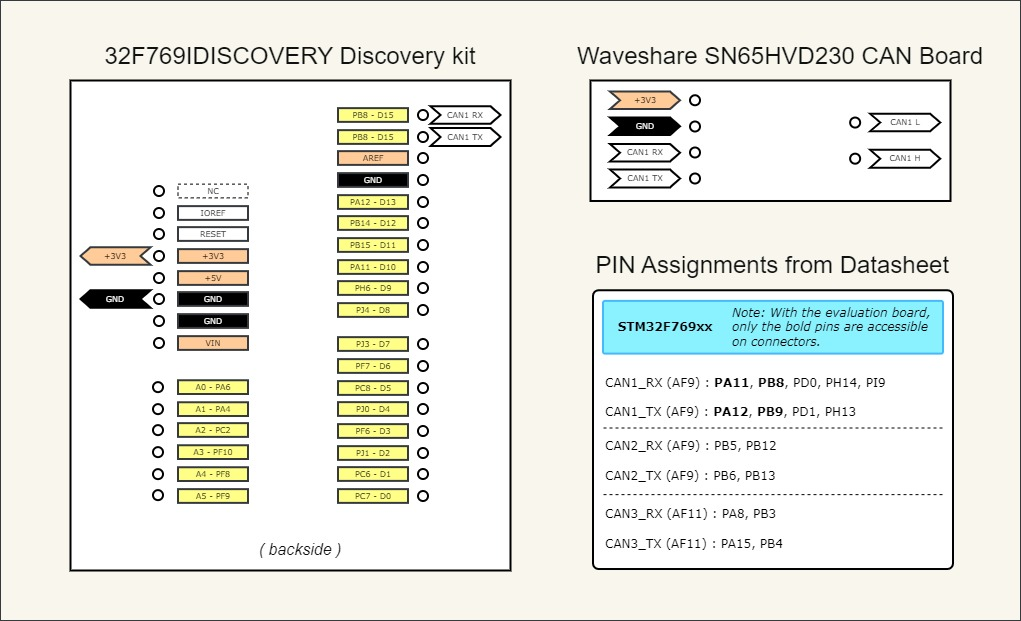
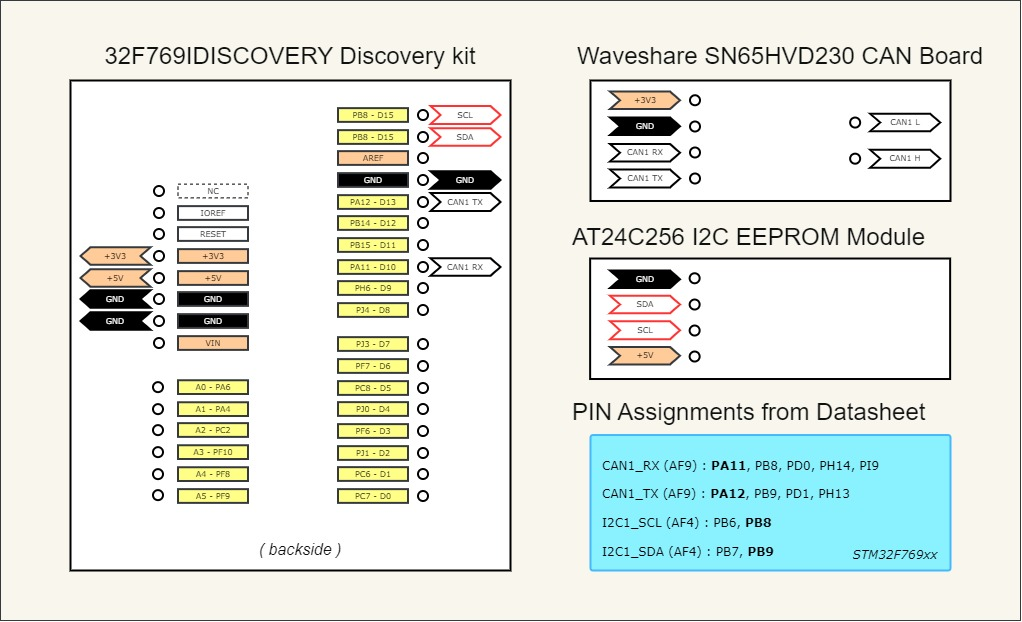
update readme and image pin collection

diff --git a/README.md b/README.md
@@ -20,6 +20,8 @@ We use the [STM32Cube MCU Full Package for the STM32F7 series](https://github.co
 My hardware setup for this development and testing is:
 - the [32F769IDISCOVERY Discovery kit](https://www.st.com/en/evaluation-tools/32f769idiscovery.html)
 - a CAN tranceiver [Waveshare SN65HVD230 CAN Board](https://www.waveshare.com/sn65hvd230-can-board.htm)
+- an Atmel [AT24C256 I2C EEPROM](https://www.microchip.com/en-us/product/AT24C256C)
+- the [KVaser USBcan II HS/HS](https://www.kvaser.com/product/kvaser-usbcan-ii-hshs/) for CAN bus monitoring
 - the [Saleae Logic Analyzer](https://www.saleae.com/) for low level measurements
 
 The wiring is pretty simple. For your reference, see the essence in a small diagram:
@@ -40,8 +42,9 @@ Download and install these free tools for your system:
 - Install the build tools [Cmake](https://cmake.org/)
 - Install the build system [Ninja](https://ninja-build.org/)
 - Install the cross-compiler [Arm GNU Toolchain](https://developer.arm.com/Tools%20and%20Software/GNU%20Toolchain)
+- Install the [STM32CubeProgrammer](https://www.st.com/en/development-tools/stm32cubeprog.html) for uploading the program to the microcontroller.
 
-*Note: on my Windows machine, I use the [Ozone debugger](https://www.segger.com/downloads/jlink/) with the free [ST-Link Reflash Utility](https://www.segger.com/products/debug-probes/j-link/models/other-j-links/st-link-on-board/) from Segger. The generated debug information in the ELF image should be suitable for all other debuggers, too.*
+> *Note: during development, you can alternatively use the free evaluation [Ozone debugger](https://www.segger.com/downloads/jlink/) with the [ST-Link Reflash Utility](https://www.segger.com/products/debug-probes/j-link/models/other-j-links/st-link-on-board/) from Segger.*
 
 
 ### Submodule: cmake-scripts
